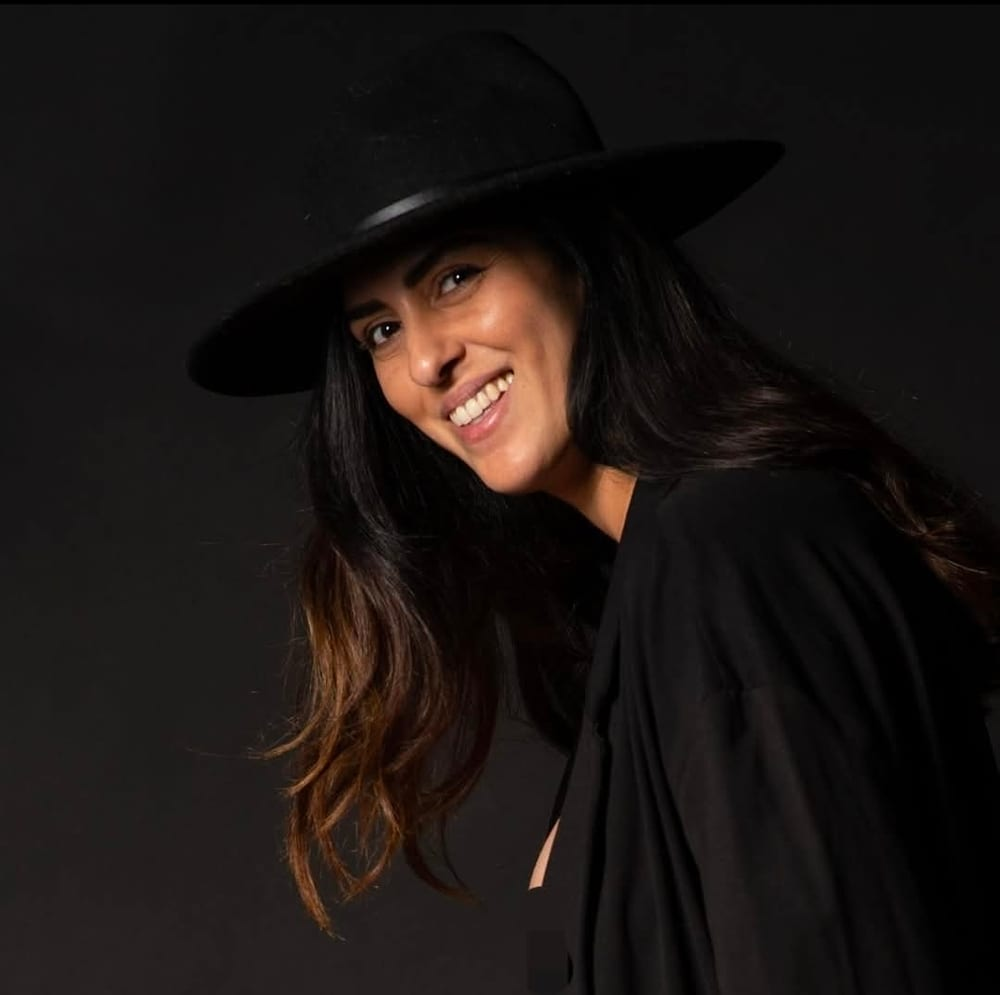
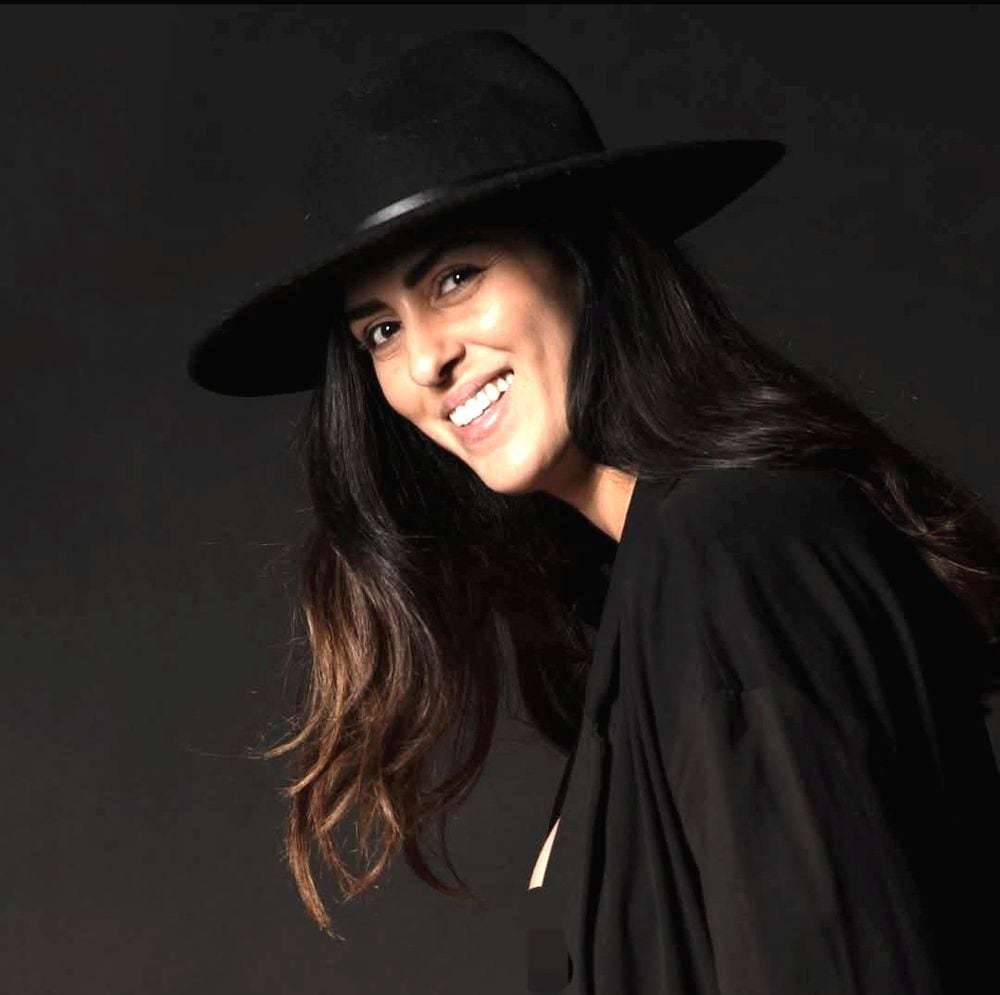
מדרגת הארה שלישית, והפורטרט עצמו הוסר מהחושך
הבעיה לא הייתה רק בקרקע. הפורטרט של רעות צולם על שחור, ולכן גם
כשהדף הואר הוא נשאר גוש כהה. הקובץ עצמו הוארה: חשיפה למעלה,
צללים מרוככים, והרקע שלו הפך לפחם רך במקום שחור. פניה נקראות
עכשיו בבירור.

הקרקע עלתה ל-1D434E, משטחי הסקשנים ל-245059, הכרטיסים לעשרה
אחוזי לבן והטקסט המשני ל-D3E4E0. השכבות מעל שני הצילומים רוככו
בהתאם, אחרת ההארה נבלעת בהן.

ניגודיות הטקסט על הקרקע: 9.5, עדיין הרבה מעל הסף.
שלושה עשר פרופילי מכשיר עוברים.

diff --git a/index.html b/index.html
@@ -1837,6 +1837,42 @@ html.skin-f .bc .about > .wrap { position:relative; z-index:1; }
       radial-gradient(ellipse 78% 62% at 50% 40%, rgba(15,37,44,.78) 34%, rgba(15,37,44,.48) 72%, rgba(15,37,44,.28) 100%),
       linear-gradient(180deg, rgba(15,37,44,.84) 0%, rgba(15,37,44,.4) 24%, rgba(15,37,44,.4) 72%, rgba(15,37,44,.88) 100%);
   }
+
+  /* ══ מדרגת הארה שלישית ══ */
+  html.skin-f, html.skin-f body { background:#1D434E; }
+  html.skin-f .bc {
+    --bg-dark:#1D434E; --bg-dark-deep:#133038; --bg-dark-elevated:#245059;
+    --bg-light:#245059; --bg-light-2:#204A54; --surface-light-bg:#245059;
+    --surface-light-card:rgba(255,255,255,.1);
+    --text-on-dark-muted:#D3E4E0; --text-on-light-muted:#D3E4E0;
+    --surface-light-muted:#D3E4E0; --muted-d:#D3E4E0; --muted-l:#D3E4E0;
+  }
+  html.skin-f .bc .obj, html.skin-f .bc .who2 { background:#245059; }
+  html.skin-f .bc .about { background-color:#204A54; }
+  html.skin-f .bc .tstm { background:linear-gradient(180deg,#204A54 0%,#245059 46%,#204A54 100%); }
+  html.skin-f .bc .pain, html.skin-f .bc .wac, html.skin-f .bc .formsec, html.skin-f .bc .faq { background:#1D434E; }
+  html.skin-f .bc .hero, html.skin-f .bc .decode { background:#133038; }
+  html.skin-f .bc footer { background:#133038; }
+  html.skin-f .bc .tstm-card, html.skin-f .bc .wz-card,
+  html.skin-f .bc .formsec .card, html.skin-f .bc .form-card { background:rgba(255,255,255,.1); }
+  html.skin-f .bc input, html.skin-f .bc select, html.skin-f .bc textarea { background:rgba(255,255,255,.12); }
+  /* השכבות מעל הצילומים מתרככות בהתאם */
+  html.skin-f .bc .hero::after {
+    background:
+      radial-gradient(ellipse 78% 62% at 50% 40%, rgba(19,48,56,.72) 34%, rgba(19,48,56,.42) 72%, rgba(19,48,56,.22) 100%),
+      linear-gradient(180deg, rgba(19,48,56,.8) 0%, rgba(19,48,56,.34) 24%, rgba(19,48,56,.34) 72%, rgba(19,48,56,.86) 100%);
+  }
+  html.skin-f .bc .about::before {
+    background:
+      linear-gradient(180deg, #204A54 0%, rgba(32,74,84,0) 14%, rgba(32,74,84,0) 86%, #204A54 100%),
+      linear-gradient(to left, rgba(32,74,84,0) 62%, #204A54 100%),
+      linear-gradient(to right, rgba(32,74,84,.12) 0%, rgba(32,74,84,.5) 32%, rgba(32,74,84,.86) 60%, rgba(32,74,84,.94) 100%);
+  }
+  @media (max-width:900px){
+    html.skin-f .bc .about::before {
+      background:linear-gradient(180deg, rgba(32,74,84,.05) 0%, rgba(32,74,84,.3) 34%, rgba(32,74,84,.86) 58%, rgba(32,74,84,.96) 100%);
+    }
+  }
 </style>
 
 <div class="bc">
